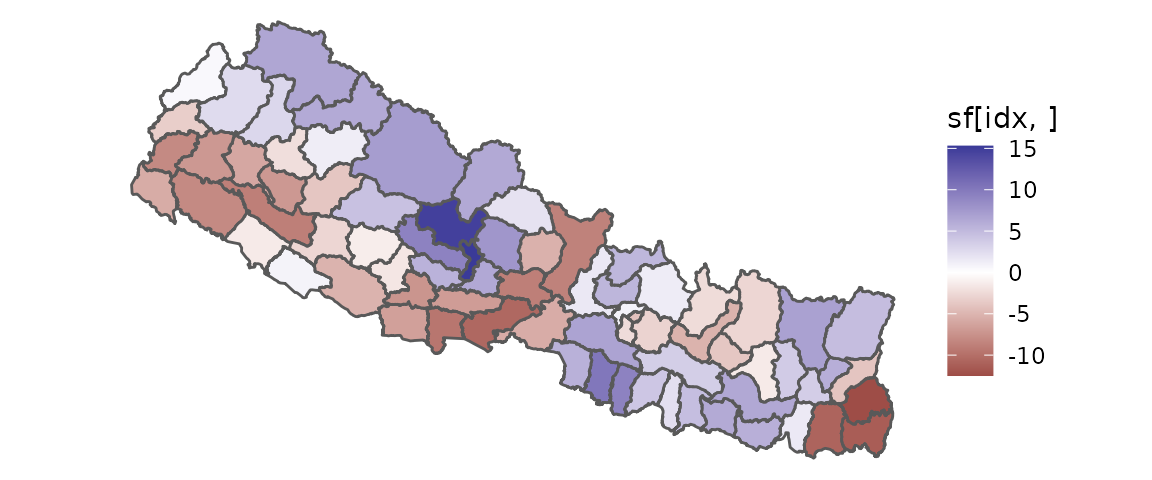
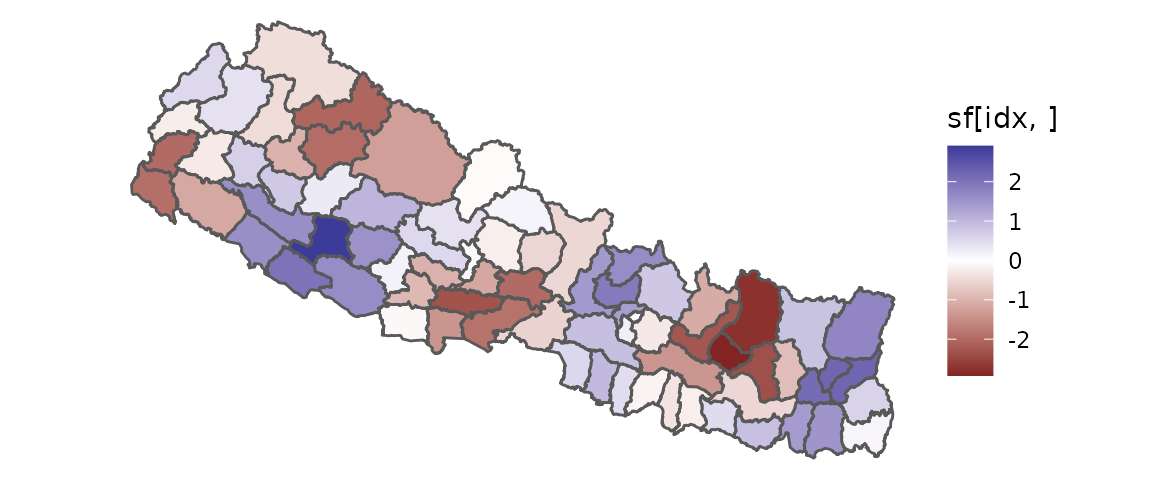
update CAR method

diff --git a/docs/articles/setting-priors.html b/docs/articles/setting-priors.html
@@ -112,17 +112,17 @@
 <span class="va">folder</span> <span class="op">&lt;-</span> <span class="fu"><a href="https://rdrr.io/r/base/tempfile.html">tempdir</a></span><span class="op">(</span><span class="op">)</span>
 <span class="va">url</span> <span class="op">&lt;-</span> <span class="st">"https://geodacenter.github.io/data-and-lab//data/nepal.zip"</span>
 <span class="fu"><a href="../reference/get_shp.html">get_shp</a></span><span class="op">(</span><span class="va">url</span>, <span class="va">folder</span><span class="op">)</span>
-<span class="co">#&gt; [1] "/tmp/RtmpRqTS6Y/callr-env-48245522dcbe4"</span>
-<span class="co">#&gt; [2] "/tmp/RtmpRqTS6Y/file482452ba9c2c2"      </span>
-<span class="co">#&gt; [3] "/tmp/RtmpRqTS6Y/file482453ef884b.so"    </span>
-<span class="co">#&gt; [4] "/tmp/RtmpRqTS6Y/file482454994127a"      </span>
-<span class="co">#&gt; [5] "/tmp/RtmpRqTS6Y/file482454f065feb.zip"  </span>
-<span class="co">#&gt; [6] "/tmp/RtmpRqTS6Y/nepal.dbf"              </span>
-<span class="co">#&gt; [7] "/tmp/RtmpRqTS6Y/nepal.prj"              </span>
-<span class="co">#&gt; [8] "/tmp/RtmpRqTS6Y/nepal.shp"              </span>
-<span class="co">#&gt; [9] "/tmp/RtmpRqTS6Y/nepal.shx"</span>
+<span class="co">#&gt; [1] "/tmp/RtmpX96u91/callr-env-12d9174b5179"</span>
+<span class="co">#&gt; [2] "/tmp/RtmpX96u91/file12d926c8e015"      </span>
+<span class="co">#&gt; [3] "/tmp/RtmpX96u91/file12d9408bd8ce.zip"  </span>
+<span class="co">#&gt; [4] "/tmp/RtmpX96u91/file12d94e1c7e9d"      </span>
+<span class="co">#&gt; [5] "/tmp/RtmpX96u91/file12d97514d02f.so"   </span>
+<span class="co">#&gt; [6] "/tmp/RtmpX96u91/nepal.dbf"             </span>
+<span class="co">#&gt; [7] "/tmp/RtmpX96u91/nepal.prj"             </span>
+<span class="co">#&gt; [8] "/tmp/RtmpX96u91/nepal.shp"             </span>
+<span class="co">#&gt; [9] "/tmp/RtmpX96u91/nepal.shx"</span>
 <span class="va">nepal</span> <span class="op">&lt;-</span> <span class="fu"><a href="https://r-spatial.github.io/sf/reference/st_read.html">st_read</a></span><span class="op">(</span><span class="va">folder</span>, <span class="st">"nepal"</span><span class="op">)</span>
-<span class="co">#&gt; Reading layer `nepal' from data source `/tmp/RtmpRqTS6Y' using driver `ESRI Shapefile'</span>
+<span class="co">#&gt; Reading layer `nepal' from data source `/tmp/RtmpX96u91' using driver `ESRI Shapefile'</span>
 <span class="co">#&gt; Simple feature collection with 75 features and 61 fields</span>
 <span class="co">#&gt; geometry type:  POLYGON</span>
 <span class="co">#&gt; dimension:      XY</span>
@@ -229,40 +229,36 @@
 <div class="sourceCode" id="cb12"><pre class="downlit sourceCode r">
 <code class="sourceCode R"><span class="co"># one at a time</span>
 <span class="fu"><a href="https://rdrr.io/r/base/mean.html">mean</a></span><span class="op">(</span><span class="va">sf</span><span class="op">[</span>,<span class="fl">1</span><span class="op">]</span><span class="op">)</span>
-<span class="co">#&gt; [1] 0.01431918</span>
+<span class="co">#&gt; [1] -0.05920298</span>
 
 <span class="co"># summarize them all: mean of each column</span>
 <span class="fu"><a href="https://rdrr.io/r/base/apply.html">apply</a></span><span class="op">(</span><span class="va">sf</span>, <span class="fl">2</span>, <span class="va">mean</span><span class="op">)</span>
-<span class="co">#&gt;        esf[1]        esf[2]        esf[3]        esf[4]        esf[5] </span>
-<span class="co">#&gt;  0.0143191846  0.0151466490  0.0146113063 -0.0243045761  0.0189957756 </span>
-<span class="co">#&gt;        esf[6]        esf[7]        esf[8]        esf[9]       esf[10] </span>
-<span class="co">#&gt;  0.0379770599  0.0558991706  0.0487226373  0.0023996490  0.0789204259 </span>
-<span class="co">#&gt;       esf[11]       esf[12]       esf[13]       esf[14]       esf[15] </span>
-<span class="co">#&gt;  0.0702287957  0.1204849215  0.0161879748  0.0636113490 -0.0003481754 </span>
-<span class="co">#&gt;       esf[16]       esf[17]       esf[18]       esf[19]       esf[20] </span>
-<span class="co">#&gt;  0.0658162556 -0.0266504898 -0.0142835986 -0.0651757869 -0.0494178736 </span>
-<span class="co">#&gt;       esf[21]       esf[22]       esf[23]       esf[24]       esf[25] </span>
-<span class="co">#&gt; -0.0504637332 -0.0629115465 -0.0238250155 -0.0537856995 -0.0289389377 </span>
-<span class="co">#&gt;       esf[26]       esf[27]       esf[28]       esf[29]       esf[30] </span>
-<span class="co">#&gt; -0.0186881216 -0.0236932241 -0.0013261630  0.0009195496 -0.0146365038 </span>
-<span class="co">#&gt;       esf[31]       esf[32]       esf[33]       esf[34]       esf[35] </span>
-<span class="co">#&gt; -0.0160042733 -0.0044585957  0.0070071320 -0.0476065439 -0.0142319389 </span>
-<span class="co">#&gt;       esf[36]       esf[37]       esf[38]       esf[39]       esf[40] </span>
-<span class="co">#&gt;  0.0224076960  0.0283154525 -0.0123069262 -0.0188247594 -0.0273251718 </span>
-<span class="co">#&gt;       esf[41]       esf[42]       esf[43]       esf[44]       esf[45] </span>
-<span class="co">#&gt; -0.0047606403 -0.0208612670  0.0134654638 -0.0359657725 -0.0123740217 </span>
-<span class="co">#&gt;       esf[46]       esf[47]       esf[48]       esf[49]       esf[50] </span>
-<span class="co">#&gt;  0.0205905484 -0.0389372280 -0.0153990421  0.0092405437 -0.0136143659 </span>
-<span class="co">#&gt;       esf[51]       esf[52]       esf[53]       esf[54]       esf[55] </span>
-<span class="co">#&gt; -0.0357298776  0.0054737236 -0.0526405529  0.0485102968  0.0355624031 </span>
-<span class="co">#&gt;       esf[56]       esf[57]       esf[58]       esf[59]       esf[60] </span>
-<span class="co">#&gt;  0.0490677084  0.0221689075  0.0696787150  0.0189778727  0.0163505406 </span>
-<span class="co">#&gt;       esf[61]       esf[62]       esf[63]       esf[64]       esf[65] </span>
-<span class="co">#&gt;  0.0394819181  0.0312984129  0.0088119352  0.0262930409 -0.0077411748 </span>
-<span class="co">#&gt;       esf[66]       esf[67]       esf[68]       esf[69]       esf[70] </span>
-<span class="co">#&gt;  0.0211451985  0.0212896307 -0.0428357364 -0.0198304829 -0.0190707737 </span>
-<span class="co">#&gt;       esf[71]       esf[72]       esf[73]       esf[74]       esf[75] </span>
-<span class="co">#&gt; -0.0343284034 -0.0363971600 -0.0389623674 -0.0620375673 -0.0486837566</span></code></pre></div>
+<span class="co">#&gt;       esf[1]       esf[2]       esf[3]       esf[4]       esf[5]       esf[6] </span>
+<span class="co">#&gt; -0.059202976  0.138704755  0.128248023 -0.022367306 -0.005014192  0.017810988 </span>
+<span class="co">#&gt;       esf[7]       esf[8]       esf[9]      esf[10]      esf[11]      esf[12] </span>
+<span class="co">#&gt;  0.006683635 -0.027661043 -0.020941649  0.043483375  0.040649994  0.039766363 </span>
+<span class="co">#&gt;      esf[13]      esf[14]      esf[15]      esf[16]      esf[17]      esf[18] </span>
+<span class="co">#&gt;  0.005379799  0.012363752 -0.040563652 -0.018267368 -0.055930249 -0.072494917 </span>
+<span class="co">#&gt;      esf[19]      esf[20]      esf[21]      esf[22]      esf[23]      esf[24] </span>
+<span class="co">#&gt; -0.039497576 -0.073409075 -0.038129994 -0.065162402 -0.034496698  0.004516498 </span>
+<span class="co">#&gt;      esf[25]      esf[26]      esf[27]      esf[28]      esf[29]      esf[30] </span>
+<span class="co">#&gt;  0.019447605 -0.007793495 -0.008388411  0.055023161 -0.007397552 -0.028992009 </span>
+<span class="co">#&gt;      esf[31]      esf[32]      esf[33]      esf[34]      esf[35]      esf[36] </span>
+<span class="co">#&gt; -0.022142595 -0.019988168 -0.012045019 -0.005564591 -0.024909924  0.072911743 </span>
+<span class="co">#&gt;      esf[37]      esf[38]      esf[39]      esf[40]      esf[41]      esf[42] </span>
+<span class="co">#&gt;  0.058119678 -0.018590896  0.047263244 -0.034386664 -0.073903940 -0.003788965 </span>
+<span class="co">#&gt;      esf[43]      esf[44]      esf[45]      esf[46]      esf[47]      esf[48] </span>
+<span class="co">#&gt; -0.054937944  0.009777061  0.008578891  0.046206500 -0.047567002 -0.082155833 </span>
+<span class="co">#&gt;      esf[49]      esf[50]      esf[51]      esf[52]      esf[53]      esf[54] </span>
+<span class="co">#&gt;  0.001724643 -0.037127912  0.006134675  0.016771389 -0.047137932  0.103951879 </span>
+<span class="co">#&gt;      esf[55]      esf[56]      esf[57]      esf[58]      esf[59]      esf[60] </span>
+<span class="co">#&gt;  0.042337398  0.050233977  0.048932350  0.074469816 -0.002153572 -0.067808949 </span>
+<span class="co">#&gt;      esf[61]      esf[62]      esf[63]      esf[64]      esf[65]      esf[66] </span>
+<span class="co">#&gt; -0.049452588  0.006923390 -0.028429166  0.077789422  0.096226742  0.110610648 </span>
+<span class="co">#&gt;      esf[67]      esf[68]      esf[69]      esf[70]      esf[71]      esf[72] </span>
+<span class="co">#&gt;  0.184656800 -0.060797464 -0.004485785  0.032340083 -0.033324068 -0.111272166 </span>
+<span class="co">#&gt;      esf[73]      esf[74]      esf[75] </span>
+<span class="co">#&gt; -0.047053443 -0.083423202 -0.009879922</span></code></pre></div>
 <p>By contrast, each row is a draw from the <em>joint</em> probability distribution of the spatial filter. Each of the coefficients has the same marginal probability as <code>beta_ev[1]</code>. But samples from the joint distribution show that the horseshoe prior assigns high probability to the presence of positive spatial autocorrelation (without favoring any particular pattern). Each of the samples exhibit a different pattern, arising from various linear combinations of eigenvectors:</p>
 <div class="sourceCode" id="cb13"><pre class="downlit sourceCode r">
 <code class="sourceCode R"><span class="va">n.samples</span> <span class="op">&lt;-</span> <span class="fu"><a href="https://rdrr.io/r/base/nrow.html">nrow</a></span><span class="op">(</span><span class="va">sf</span><span class="op">)</span>
@@ -371,16 +367,17 @@
 <span class="va">C</span> <span class="op">&lt;-</span> <span class="fu"><a href="../reference/shape2mat.html">shape2mat</a></span><span class="op">(</span><span class="va">nepal</span><span class="op">)</span>
 <span class="va">icar.data</span> <span class="op">&lt;-</span> <span class="fu"><a href="../reference/prep_icar_data.html">prep_icar_data</a></span><span class="op">(</span><span class="va">C</span><span class="op">)</span>
 
-<span class="va">scale_factor</span> <span class="op">&lt;-</span> <span class="fu"><a href="https://rdrr.io/r/base/vector.html">vector</a></span><span class="op">(</span>mode <span class="op">=</span> <span class="st">"numeric"</span>, length <span class="op">=</span> <span class="va">n</span><span class="op">)</span>
+<span class="va">k</span> <span class="op">&lt;-</span> <span class="va">icar.data</span><span class="op">$</span><span class="va">k</span>
+<span class="va">scale_factor</span> <span class="op">&lt;-</span> <span class="fu"><a href="https://rdrr.io/r/base/vector.html">vector</a></span><span class="op">(</span>mode <span class="op">=</span> <span class="st">"numeric"</span>, length <span class="op">=</span> <span class="va">k</span><span class="op">)</span>
 <span class="kw">for</span> <span class="op">(</span><span class="va">j</span> <span class="kw">in</span> <span class="fl">1</span><span class="op">:</span><span class="va">k</span><span class="op">)</span> <span class="op">{</span>
     <span class="va">g.idx</span> <span class="op">&lt;-</span> <span class="fu"><a href="https://rdrr.io/r/base/which.html">which</a></span><span class="op">(</span><span class="va">icar.data</span><span class="op">$</span><span class="va">comp.id</span> <span class="op">==</span> <span class="va">j</span><span class="op">)</span> 
     <span class="kw">if</span> <span class="op">(</span><span class="fu"><a href="https://rdrr.io/r/base/length.html">length</a></span><span class="op">(</span><span class="va">g.idx</span><span class="op">)</span> <span class="op">==</span> <span class="fl">1</span><span class="op">)</span> <span class="op">{</span>
-        <span class="va">scale_factor</span><span class="op">[</span><span class="va">g.idx</span><span class="op">]</span> <span class="op">&lt;-</span> <span class="fl">1</span> 
+        <span class="va">scale_factor</span><span class="op">[</span><span class="va">j</span><span class="op">]</span> <span class="op">&lt;-</span> <span class="fl">1</span> 
         <span class="kw">next</span>
     <span class="op">}</span>    
     <span class="va">Cg</span> <span class="op">&lt;-</span> <span class="va">C</span><span class="op">[</span><span class="va">g.idx</span>, <span class="va">g.idx</span><span class="op">]</span> 
     <span class="va">scale.j</span> <span class="op">&lt;-</span> <span class="fu">c_scale</span><span class="op">(</span><span class="va">Cg</span><span class="op">)</span>
-    <span class="va">scale_factor</span><span class="op">[</span><span class="va">g.idx</span><span class="op">]</span> <span class="op">&lt;-</span> <span class="va">scale.j</span>
+    <span class="va">scale_factor</span><span class="op">[</span><span class="va">j</span><span class="op">]</span> <span class="op">&lt;-</span> <span class="va">scale.j</span>
 <span class="op">}</span></code></pre></div>
 <p>The <code>scale_factor</code> is then passed to <code>stan_icar</code> for the BYM2 model, as in:</p>
 <div class="sourceCode" id="cb24"><pre class="downlit sourceCode r">
@@ -389,12 +386,12 @@
 <div id="setting-priors-car" class="section level2">
 <h2 class="hasAnchor">
 <a href="#setting-priors-car" class="anchor"></a>Setting priors: CAR</h2>
-<p>The <code>stan_car</code> model follows the Stan code created by <span class="citation">Joseph (2016)</span>. The only adjustable parameter specific to this model is the Gamma prior on the precision parameter for the spatial component <code>phi</code> (coded as <code>phi_tau</code>). The default Gamma prior is Gamma (2, 2). If you wish to change it you can do so by updating <code>prior_phi_precision</code>, such as</p>
+<p>The only adjustable parameter specific to the CAR model is the prior on the scale parameter. The default is weakly informative. The CAR model is a multivariate Gaussian distribution specified as followings:</p>
+<p><span class="math display">\[ \phi \sim MVGauss(0, \sigma * (D - \alpha * C)^{-1}) \]</span></p>
+<p>where <span class="math inline">\(\phi\)</span> is a vector of parameters to model and <span class="math inline">\(\sigma\)</span> is the scale parameter. C is a connectivity matrix while the diagonal elements of matrix D adjust the variance of each observation. For instance, the default specification sets the diagonal elements of D equal to the number of neighbors of each respective observation. <span class="math inline">\(\alpha\)</span> controls the degree of spatial autocorrelation. <span class="math inline">\(\alpha\)</span> will be less than zero when negative spatial autocorrelation patterns (similar values appear far from each other, like a checkerboard) predominate, and it is positive when the predominate pattern is positive spatial autocorrelation with a maximum value of 1. This parameter is not comparable to the spatial autocorrelation parameter from the SAR model or the APLE, despite some similarity.</p>
+<p>The scale is given a half-Student’s t prior (“half” meaning it is constrained to positive values only), requiring parameters for degrees of freedom, location, and scale. The following code sets the prior to 30 degrees of freedom, location 0, and unit scale:</p>
 <div class="sourceCode" id="cb25"><pre class="downlit sourceCode r">
-<code class="sourceCode R"><span class="va">fit</span> <span class="op">&lt;-</span> <span class="fu"><a href="../reference/stan_car.html">stan_car</a></span><span class="op">(</span><span class="va">y</span> <span class="op">~</span> <span class="fu"><a href="https://rdrr.io/r/stats/offset.html">offset</a></span><span class="op">(</span><span class="va">log_population</span><span class="op">)</span>, data <span class="op">=</span> <span class="va">data</span>, C <span class="op">=</span> <span class="va">C</span>, prior_phi_precision <span class="op">=</span> <span class="fu"><a href="https://rdrr.io/r/base/c.html">c</a></span><span class="op">(</span><span class="fl">1</span>, <span class="fl">1</span><span class="op">)</span><span class="op">)</span></code></pre></div>
-<div class="sourceCode" id="cb26"><pre class="downlit sourceCode r">
-<code class="sourceCode R"><span class="co"># delete the nepal data </span>
-<span class="fu"><a href="https://rdrr.io/r/base/unlink.html">unlink</a></span><span class="op">(</span><span class="st">"nepal"</span>, recursive <span class="op">=</span> <span class="cn">TRUE</span><span class="op">)</span></code></pre></div>
+<code class="sourceCode R"><span class="va">fit</span> <span class="op">&lt;-</span> <span class="fu"><a href="../reference/stan_car.html">stan_car</a></span><span class="op">(</span><span class="va">y</span> <span class="op">~</span> <span class="fu"><a href="https://rdrr.io/r/stats/offset.html">offset</a></span><span class="op">(</span><span class="va">log_population</span><span class="op">)</span>, data <span class="op">=</span> <span class="va">data</span>, C <span class="op">=</span> <span class="va">C</span>, prior_car_scale <span class="op">=</span> <span class="fu"><a href="https://rdrr.io/r/base/c.html">c</a></span><span class="op">(</span><span class="fl">30</span>, <span class="fl">0</span>, <span class="fl">1</span><span class="op">)</span><span class="op">)</span></code></pre></div>
 </div>
 <div id="references" class="section level2 unnumbered">
 <h2 class="hasAnchor">
@@ -405,9 +402,6 @@
 </div>
 <div id="ref-donegan_2020">
 <p>Donegan, Connor, Yongwan Chun, and Amy E Hughes. 2020. “Bayesian Estimation of Spatial Filters with Moran’s Eigenvectors and Hierarchical Shrinkage Priors.” <em>Spatial Statistics</em>, 100450.</p>
-</div>
-<div id="ref-joseph_2016">
-<p>Joseph, Max. 2016. “Exact Sparse Car Models in Stan.” <em>Stan Case Studies</em>. <a href="http://mc-stan.%20org/users/documentation/case-studies/mbjoseph-CARStan.%20html">http://mc-stan. org/users/documentation/case-studies/mbjoseph-CARStan. html</a>.</p>
 </div>
 <div id="ref-morris_2019">
 <p>Morris, Mitzi, Katherine Wheeler-Martin, Dan Simpson, Stephen J Mooney, Andrew Gelman, and Charles DiMaggio. 2019. “Bayesian Hierarchical Spatial Models: Implementing the Besag York Mollié Model in Stan.” <em>Spatial and Spatio-Temporal Epidemiology</em> 31: 100301.</p>

diff --git a/docs/reference/stan_car.html b/docs/reference/stan_car.html
@@ -6,7 +6,7 @@
 <meta http-equiv="X-UA-Compatible" content="IE=edge">
 <meta name="viewport" content="width=device-width, initial-scale=1.0">
 
-<title>Conditional autoregressive models — stan_car • geostan</title>
+<title>Conditional auto-regressive (CAR) models — stan_car • geostan</title>
 
 <!-- favicons -->
 <link rel="icon" type="image/png" sizes="16x16" href="../favicon-16x16.png">
@@ -46,8 +46,8 @@
 
 
 
-<meta property="og:title" content="Conditional autoregressive models — stan_car" />
-<meta property="og:description" content="Fit a regression model with a conditional auto-regressive (CAR) spatial component. Only binary weighting schemes are currently supported." />
+<meta property="og:title" content="Conditional auto-regressive (CAR) models — stan_car" />
+<meta property="og:description" content="Apply the CAR model as a prior on parameters." />
 <meta property="og:image" content="/logo.png" />
 
 
@@ -129,13 +129,13 @@
 <div class="row">
   <div class="col-md-9 contents">
     <div class="page-header">
-    <h1>Conditional autoregressive models</h1>
+    <h1>Conditional auto-regressive (CAR) models</h1>
     
     <div class="hidden name"><code>stan_car.Rd</code></div>
     </div>
 
     <div class="ref-description">
-    <p>Fit a regression model with a conditional auto-regressive (CAR) spatial component. Only binary weighting schemes are currently supported.</p>
+    <p>Apply the CAR model as a prior on parameters.</p>
     </div>
 
     <pre class="usage"><span class='fu'>stan_car</span><span class='op'>(</span>
@@ -145,12 +145,13 @@
   <span class='va'>data</span>,
   ME <span class='op'>=</span> <span class='cn'>NULL</span>,
   <span class='va'>C</span>,
+  D_diagonal <span class='op'>=</span> <span class='fu'><a href='https://rdrr.io/r/base/apply.html'>apply</a></span><span class='op'>(</span><span class='va'>C</span>, <span class='fl'>1</span>, <span class='kw'>function</span><span class='op'>(</span><span class='va'>r</span><span class='op'>)</span> <span class='fu'><a href='https://rdrr.io/r/base/sum.html'>sum</a></span><span class='op'>(</span><span class='va'>r</span> <span class='op'>&gt;</span> <span class='fl'>0</span><span class='op'>)</span><span class='op'>)</span>,
   <span class='va'>EV</span>,
   family <span class='op'>=</span> <span class='fu'><a href='https://rdrr.io/r/stats/family.html'>poisson</a></span><span class='op'>(</span><span class='op'>)</span>,
   prior <span class='op'>=</span> <span class='cn'>NULL</span>,
   prior_intercept <span class='op'>=</span> <span class='cn'>NULL</span>,
   prior_tau <span class='op'>=</span> <span class='cn'>NULL</span>,
-  prior_phi_precision <span class='op'>=</span> <span class='fu'><a href='https://rdrr.io/r/base/c.html'>c</a></span><span class='op'>(</span><span class='fl'>2</span>, <span class='fl'>2</span><span class='op'>)</span>,
+  prior_car_scale <span class='op'>=</span> <span class='cn'>NULL</span>,
   centerx <span class='op'>=</span> <span class='cn'>FALSE</span>,
   scalex <span class='op'>=</span> <span class='cn'>FALSE</span>,
   prior_only <span class='op'>=</span> <span class='cn'>FALSE</span>,
@@ -178,7 +179,7 @@ If and when setting priors for <code>beta</code> manually, remember to include p
     </tr>
     <tr>
       <th>re</th>
-      <td><p>If the model includes a varying intercept term (or "spatially unstructured random effect") specify the grouping variable here using formula syntax, as in <code>~ ID</code>.</p></td>
+      <td><p>If the model includes a varying intercept term <code>alpha_re</code> specify the grouping variable here using formula syntax, as in <code>~ ID</code>. Then, <code>alpha_re ~ N(0, alpha_tau)</code>, <code>alpha_tau ~ Student_t(d.f., location, scale)</code>.</p></td>
     </tr>
     <tr>
       <th>data</th>
@@ -201,8 +202,12 @@ If and when setting priors for <code>beta</code> manually, remember to include p
       <td><p>Binary spatial connectivity matrix. This is used for the CAR prior and to calculate residual spatial autocorrelation as well as any user specified <code>slx</code> terms (it will be row-standardized before calculating <code>slx</code> terms).</p></td>
     </tr>
     <tr>
+      <th>D_diagonal</th>
+      <td><p>Diagonal elements of matrix D, which influence the prior precision of each observation relative to each other. The default specification sets this equal to the number of neighbors of each observation. A limitation of the default specification (for this software implementation) is that all observations must have at least one neighbor.</p></td>
+    </tr>
+    <tr>
       <th>EV</th>
-      <td><p>A matrix of eigenvectors from any (transformed) connectivity matrix (presumably spatial). See <a href='make_EV.html'>make_EV</a> and <a href='shape2mat.html'>shape2mat</a>.</p></td>
+      <td><p>A matrix of eigenvectors from any doubly-centered connectivity matrix (presumably spatial). See <a href='make_EV.html'>make_EV</a> and <a href='shape2mat.html'>shape2mat</a>.</p></td>
     </tr>
     <tr>
       <th>family</th>
@@ -218,11 +223,11 @@ If and when setting priors for <code>beta</code> manually, remember to include p
     </tr>
     <tr>
       <th>prior_tau</th>
-      <td><p>Set hyperparameters for the scale parameter of varying intercepts <code>re</code>. The varying intercepts are given a normal prior with scale parameter <code>alpha_tau</code>. The latter is given a half-Student's t prior with default of 20 degrees of freedom, centered on zero and scaled to the data to be weakly informative. To adjust it use, e.g., <code>prior_tau = c(df = 15, location = 0, scale = 5)</code>.</p></td>
+      <td><p>Set hyperparameters for the scale parameter of varying intercepts <code>alpha_re</code>. The varying intercepts are given a normal prior with scale parameter <code>alpha_tau</code>. The latter is given a half-Student's t prior with default of 20 degrees of freedom, centered on zero and scaled to the data to be weakly informative. To adjust it use, e.g., <code>prior_tau = c(df = 15, location = 0, scale = 5)</code>.</p></td>
     </tr>
     <tr>
-      <th>prior_phi_precision</th>
-      <td><p>Hyperprior parameters for the precision (inverse scale) of the CAR component <code>phi</code>, a numeric vector of length two. The precision parameter for <code>phi</code> is <code>phi_tau</code> which is assigned a Gamma prior distribution; defaults to <code>prior_phi_precision = c(2, 2)</code>.</p></td>
+      <th>prior_car_scale</th>
+      <td><p>Hyperprior parameters for the scale of the CAR model. The scale is assigned a Student's t prior model; to set a custom prior provide a length-three vector with the degrees of freedom, location, and scale parameters. E.g., <code>prior_car_scale = c(df = 15, location = 0, scale = 2)</code>.</p></td>
     </tr>
     <tr>
       <th>centerx</th>
@@ -268,21 +273,22 @@ If and when setting priors for <code>beta</code> manually, remember to include p
 
     <h2 class="hasAnchor" id="source"><a class="anchor" href="#source"></a>Source</h2>
 
-    <p>Joseph, Max (2016). Exact Sparse CAR Models in Stan. Stan Case Studies, Vol. 3. <a href='https://mc-stan.org/users/documentation/case-studies/mbjoseph-CARStan.html'>https://mc-stan.org/users/documentation/case-studies/mbjoseph-CARStan.html</a></p>
-<p>Lawson, Andrew B. (2013). Bayesian Disease Mapping: Hierarchical Modeling in Spatial Epidemiology. CRC Press.</p>
+    <p>Cressie, Noel and Wikle, Christopher (2011). Statistics for Spatio-Temporal Data. Wiley.</p>
+<p>Haining, Robert and Li, Guangquan (2020). Modelling Spatial and Spatial-Temporal Data: A Bayesian Approach. CRC Press.</p>
+<p>Jin, Xiaoping and Carlin, Bradley P. and Banerjee, Sudipto (2005). Generalized Hierarchical Multivariate CAR Models for Areal Data. Biometrics: 61 (4): 950-961. <a href='https://www.jstor.org/stable/3695906'>https://www.jstor.org/stable/3695906</a></p>
+<p>Joseph, Max (2016). Exact Sparse CAR Models in Stan. Stan Case Studies, Vol. 3. <a href='https://mc-stan.org/users/documentation/case-studies/mbjoseph-CARStan.html'>https://mc-stan.org/users/documentation/case-studies/mbjoseph-CARStan.html</a></p>
     <h2 class="hasAnchor" id="value"><a class="anchor" href="#value"></a>Value</h2>
 
     <p>An object of class class <code>geostan_fit</code> (a list) containing:</p><dl>
-<dt>summary</dt><dd><p>Summaries of the main parameters of interest; a data frame, including <code>phi</code> the spatial term, <code>phi_tau</code> the scale of the CAR model, and <code>phi_alpha</code> the parameter that controls the degree of spatial autocorrelation in <code>phi</code> and has range <code>[0, 1]</code>.</p></dd>
+<dt>summary</dt><dd><p>Summaries of the main parameters of interest; a data frame.</p></dd>
 <dt>diagnostic</dt><dd><p>Widely Applicable Information Criteria (WAIC) with crude measure of effective number of parameters (<code>eff_pars</code>) and 
  mean log pointwise predictive density (<code>lpd</code>), and residual spatial autocorrelation (Moran coefficient of the residuals). Residuals are relative to the mean posterior fitted values.</p></dd>
 <dt>stanfit</dt><dd><p>an object of class <code>stanfit</code> returned by <code><a href='https://mc-stan.org/rstan/reference/stan.html'>rstan::stan</a></code></p></dd>
 <dt>data</dt><dd><p>a data frame containing the model data</p></dd>
-<dt>edges</dt><dd><p>The edge list representing all unique sets of neighbors (a sparse representation of C)</p></dd>
 <dt>family</dt><dd><p>the user-provided or default <code>family</code> argument used to fit the model</p></dd>
 <dt>formula</dt><dd><p>The model formula provided by the user (not including CAR component)</p></dd>
 <dt>slx</dt><dd><p>The <code>slx</code> formula</p></dd>
-<dt>re</dt><dd><p>A list containing <code>re</code>, the random effects (varying intercepts) formula if provided, and 
+<dt>re</dt><dd><p>A list containing <code>re</code>, the varying intercepts (<code>re</code>) formula if provided, and 
  <code>Data</code> a data frame with columns <code>id</code>, the grouping variable, and <code>idx</code>, the index values assigned to each group.</p></dd>
 <dt>priors</dt><dd><p>Prior specifications.</p></dd>
 <dt>scale_params</dt><dd><p>A list with the center and scale parameters returned from the call to <code><a href='https://rdrr.io/r/base/scale.html'>base::scale</a></code> on the model matrix. If <code>centerx = FALSE</code> and <code>scalex = FALSE</code> then it is an empty list.</p></dd>
@@ -292,7 +298,10 @@ If and when setting priors for <code>beta</code> manually, remember to include p
 
     <h2 class="hasAnchor" id="details"><a class="anchor" href="#details"></a>Details</h2>
 
-    <p>The CAR model is the prior distribution for the parameter vector <code>phi</code> and has two associated parameters: <code>phi_alpha</code> which controls the degree of spatial autocorrelation (and thus the amount of spatial smoothing) and <code>phi_tau</code> which is a precision (inverse scale) parameter. The Stan code for the CAR component of the model is from Joseph (2016).</p>
+    <p>The CAR model has two parameters: <code>car_alpha</code> which controls the degree of spatial autocorrelation (and thus the amount of spatial smoothing) and <code>car_scale</code> which is a scale parameter (<code>car_scale = 1/sqrt(precision)</code>).</p>
+<p><code>Y ~ MVGauss(Mu, scale * (D - alpha * C)^-1)</code></p>
+<p>where <code>Y</code> may be data or parameters and <code>Mu</code> is the mean vector. When <code>Y</code> is a vector of parameters (as in Poisson models), <code>Mu</code> is a vector of zeroes. <code>C</code> is a connectivity matrix (often binary) and <code>D</code> is a matrix with diagonal entries that scale each observation. So an observation corresponding to a diagonal element of <code>D</code> that has larger values relative to other <code>D</code> elements will have smaller variance in the prior probability.</p>
+<p>These models are discussed in Haining and Li (2020, p. 249-51) and Cressie and Wikle (2011, p. 184-88). The Stan code for the model draws from Joseph (2016) to calculate the determinant of the precision matrix (see Jin et al. 2005, p. 955).</p>
     <h2 class="hasAnchor" id="author"><a class="anchor" href="#author"></a>Author</h2>
 
     <p>Connor Donegan, <a href='mailto:Connor.Donegan@UTDallas.edu'>Connor.Donegan@UTDallas.edu</a></p>

diff --git a/docs/articles/measuring-sa.html b/docs/articles/measuring-sa.html
@@ -177,7 +177,7 @@
 <code class="sourceCode R"><span class="va">x</span> <span class="op">&lt;-</span> <span class="fu"><a href="../reference/sim_sar.html">sim_sar</a></span><span class="op">(</span>w <span class="op">=</span> <span class="va">W</span>, rho <span class="op">=</span> <span class="fl">0.7</span><span class="op">)</span>
 
 <span class="fu"><a href="../reference/aple.html">aple</a></span><span class="op">(</span><span class="va">x</span>, <span class="va">W</span><span class="op">)</span>
-<span class="co">#&gt; [1] 0.592</span>
+<span class="co">#&gt; [1] 0.559</span>
 
 <span class="fu"><a href="https://ggplot2.tidyverse.org/reference/ggplot.html">ggplot</a></span><span class="op">(</span><span class="va">ohio</span><span class="op">)</span> <span class="op">+</span>
   <span class="fu"><a href="https://ggplot2.tidyverse.org/reference/ggsf.html">geom_sf</a></span><span class="op">(</span><span class="fu"><a href="https://ggplot2.tidyverse.org/reference/aes.html">aes</a></span><span class="op">(</span>fill <span class="op">=</span> <span class="va">x</span><span class="op">)</span><span class="op">)</span> <span class="op">+</span>
@@ -189,7 +189,7 @@
 <span class="fu"><a href="https://rdrr.io/r/base/dim.html">dim</a></span><span class="op">(</span><span class="va">X</span><span class="op">)</span>
 <span class="co">#&gt; [1]  5 88</span>
 <span class="fu"><a href="https://rdrr.io/r/base/apply.html">apply</a></span><span class="op">(</span><span class="va">X</span>, <span class="fl">1</span>, <span class="va">aple</span>, w <span class="op">=</span> <span class="va">W</span><span class="op">)</span>
-<span class="co">#&gt; [1] 0.600 0.710 0.576 0.756 0.543</span></code></pre></div>
+<span class="co">#&gt; [1] 0.646 0.706 0.735 0.620 0.619</span></code></pre></div>
 </div>
 <div id="spatial-diagnostics-with-sp_diag" class="section level2">
 <h2 class="hasAnchor">

diff --git a/docs/reference/aple.html b/docs/reference/aple.html
@@ -173,7 +173,7 @@
     <h2 class="hasAnchor" id="examples"><a class="anchor" href="#examples"></a>Examples</h2>
     <pre class="examples"><div class='input'>
 <span class='kw'><a href='https://rdrr.io/r/base/library.html'>library</a></span><span class='op'>(</span><span class='va'><a href='https://r-spatial.github.io/sf/'>sf</a></span><span class='op'>)</span>
-</div><div class='output co'>#&gt; <span class='message'>Linking to GEOS 3.8.0, GDAL 3.0.4, PROJ 6.3.1</span></div><div class='input'><span class='fu'><a href='https://rdrr.io/r/utils/data.html'>data</a></span><span class='op'>(</span><span class='va'>ohio</span><span class='op'>)</span>
+<span class='fu'><a href='https://rdrr.io/r/utils/data.html'>data</a></span><span class='op'>(</span><span class='va'>ohio</span><span class='op'>)</span>
 <span class='va'>w</span> <span class='op'>&lt;-</span> <span class='fu'><a href='shape2mat.html'>shape2mat</a></span><span class='op'>(</span><span class='va'>ohio</span>, <span class='st'>"W"</span><span class='op'>)</span>
 <span class='va'>x</span> <span class='op'>&lt;-</span> <span class='va'>ohio</span><span class='op'>$</span><span class='va'>unemployment</span>
 <span class='fu'>aple</span><span class='op'>(</span><span class='va'>x</span>, <span class='va'>w</span><span class='op'>)</span>

diff --git a/docs/reference/index.html b/docs/reference/index.html
@@ -236,7 +236,7 @@
         <td>
           <p><code><a href="stan_car.html">stan_car()</a></code> </p>
         </td>
-        <td><p>Conditional autoregressive models</p></td>
+        <td><p>Conditional auto-regressive (CAR) models</p></td>
       </tr><tr>
         
         <td>
